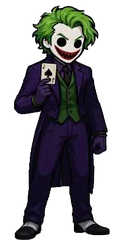
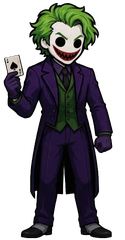
New Joker character animation (background removed)
Claude-Session: https://claude.ai/code/session_017YvUJU1DCo6XQYq5z1frTe

diff --git a/public/characters.js b/public/characters.js
@@ -37,8 +37,8 @@ window.CHARACTERS = [
     id: 'joker',
     name: 'The Joker',
     desc: 'Why so serious? Shows up with a card up his sleeve.',
-    img: 'img/characters/joker.webp',
-    still: 'img/characters/joker-still.png',
+    img: 'img/characters/joker.webp?v=2',
+    still: 'img/characters/joker-still.png?v=2',
     height: 150,
     spot: { day: { x: 345, y: 520 }, night: { x: 350, y: 530 } },
     spotHd: { day: { x: 190, y: 600 }, night: { x: 150, y: 655 } },
